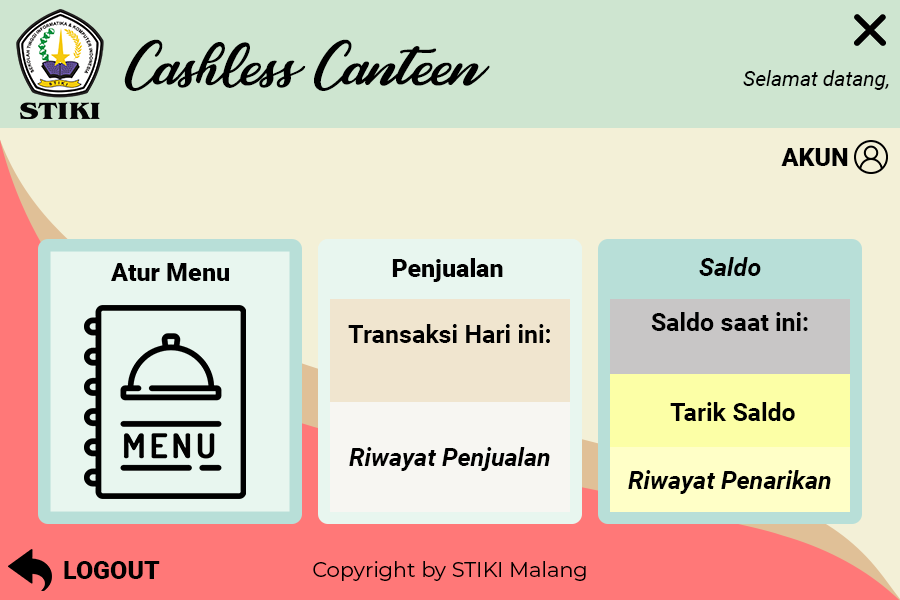
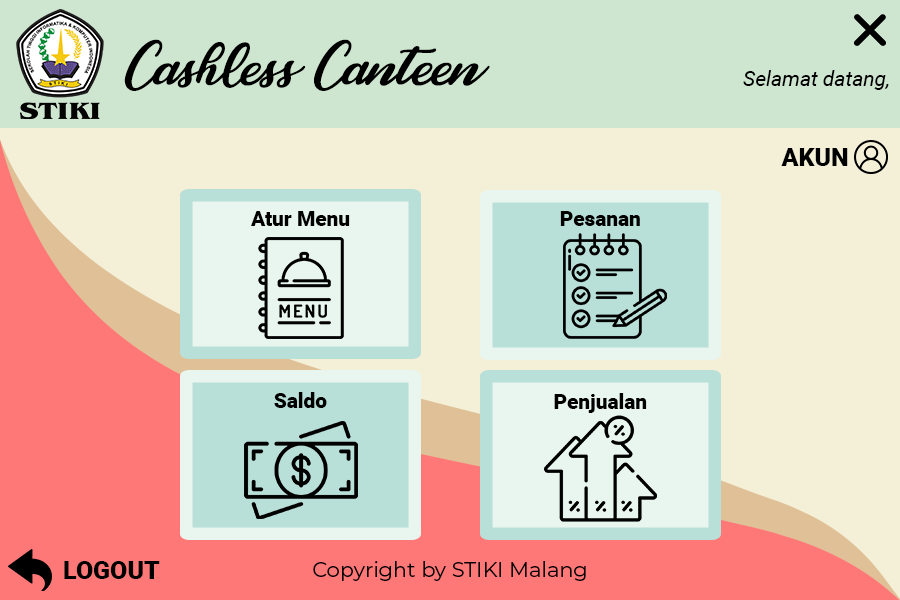
Update Menu Toko, template toko

diff --git a/src/Toko/Menu_Toko.java b/src/Toko/Menu_Toko.java
@@ -46,7 +46,7 @@ public class Menu_Toko extends javax.swing.JFrame {
         jLabel2 = new javax.swing.JLabel();
         jLabel1 = new javax.swing.JLabel();
         labelUsername = new javax.swing.JLabel();
-        Btn_RiwayatPenarikan = new javax.swing.JLabel();
+        Btn_Pesanan = new javax.swing.JLabel();
         Btn_TarikSaldo = new javax.swing.JLabel();
         Btn_RiwayatPenjualan = new javax.swing.JLabel();
         Btn_UpdateMenu = new javax.swing.JLabel();
@@ -83,9 +83,9 @@ public class Menu_Toko extends javax.swing.JFrame {
         labelUsername.setFont(new java.awt.Font("Tahoma", 2, 18)); // NOI18N
         labelUsername.setText("jLabel1");
         getContentPane().add(labelUsername, new org.netbeans.lib.awtextra.AbsoluteConstraints(750, 100, -1, -1));
-        getContentPane().add(Btn_RiwayatPenarikan, new org.netbeans.lib.awtextra.AbsoluteConstraints(610, 450, 240, 60));
-        getContentPane().add(Btn_TarikSaldo, new org.netbeans.lib.awtextra.AbsoluteConstraints(610, 380, 240, 60));
-        getContentPane().add(Btn_RiwayatPenjualan, new org.netbeans.lib.awtextra.AbsoluteConstraints(330, 400, 240, 110));
+        getContentPane().add(Btn_Pesanan, new org.netbeans.lib.awtextra.AbsoluteConstraints(480, 190, 240, 170));
+        getContentPane().add(Btn_TarikSaldo, new org.netbeans.lib.awtextra.AbsoluteConstraints(180, 370, 240, 170));
+        getContentPane().add(Btn_RiwayatPenjualan, new org.netbeans.lib.awtextra.AbsoluteConstraints(480, 370, 240, 170));
 
         Btn_UpdateMenu.setCursor(new java.awt.Cursor(java.awt.Cursor.HAND_CURSOR));
         Btn_UpdateMenu.addMouseListener(new java.awt.event.MouseAdapter() {
@@ -93,7 +93,7 @@ public class Menu_Toko extends javax.swing.JFrame {
                 Btn_UpdateMenuMouseClicked(evt);
             }
         });
-        getContentPane().add(Btn_UpdateMenu, new org.netbeans.lib.awtextra.AbsoluteConstraints(50, 250, 240, 260));
+        getContentPane().add(Btn_UpdateMenu, new org.netbeans.lib.awtextra.AbsoluteConstraints(180, 190, 240, 170));
 
         BG.setIcon(new javax.swing.ImageIcon(getClass().getResource("/Images/Toko/Menu Page.png"))); // NOI18N
         getContentPane().add(BG, new org.netbeans.lib.awtextra.AbsoluteConstraints(0, 0, 900, 600));
@@ -167,7 +167,7 @@ public class Menu_Toko extends javax.swing.JFrame {
 
     // Variables declaration - do not modify//GEN-BEGIN:variables
     private javax.swing.JLabel BG;
-    private javax.swing.JLabel Btn_RiwayatPenarikan;
+    private javax.swing.JLabel Btn_Pesanan;
     private javax.swing.JLabel Btn_RiwayatPenjualan;
     private javax.swing.JLabel Btn_TarikSaldo;
     private javax.swing.JLabel Btn_UpdateMenu;

diff --git a/src/Login/RegisterPage.java b/src/Login/RegisterPage.java
@@ -77,8 +77,6 @@ public class RegisterPage extends javax.swing.JFrame {
         setUndecorated(true);
         setResizable(false);
         getContentPane().setLayout(new org.netbeans.lib.awtextra.AbsoluteLayout());
-
-        tanggalLahir.setFocusable(false);
         getContentPane().add(tanggalLahir, new org.netbeans.lib.awtextra.AbsoluteConstraints(480, 380, 290, -1));
 
         ClearButton.setCursor(new java.awt.Cursor(java.awt.Cursor.HAND_CURSOR));
